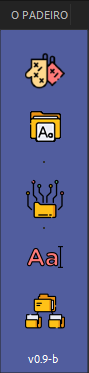
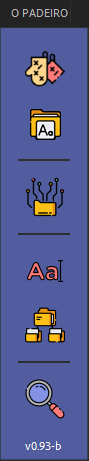
-

Changed region(s): [[0.0, 0.0, 0.9888, 0.6193], [0.2022, 0.6488, 0.7865, 0.9142], [0.0225, 0.9437, 0.9663, 1.0]]

diff --git a/docs/O_PADEIRO/O PADEIRO.md b/docs/O_PADEIRO/O PADEIRO.md
@@ -22,23 +22,28 @@ ferramentas disponíveis em ordem:
 
 - **O PADEIRO**:
 `◖ clique esquerdo` → abre a janela de templates.
-`◗ clique direito` → abre a pasta de templates no servidor de arquivos.
+`◗ clique direito` → abre a pasta de templates no servidor.
   >
 - **RESOLVER FONTES**:
-`◖ clique esquerdo` → instala as fontes necessárias para o template criado.
-`◗ clique direito` → faz o collect dos arquivos de fonte usados no projeto.
+`◖ clique esquerdo` → instala as fontes necessárias para o template.
+`◗ clique direito` → faz o collect dos arquivos de fonte do projeto.
   >
 - **ABRIR PASTAS**:
 `◖ clique esquerdo` → abre a pasta de output do último item da fila de render.
 `◗ clique direito` → abre a pasta do projeto atual.
   > *se o projeto já foi salvo.*
-- **RENOMEAR ITENS**:
+- **RENOMEAR**:
 `◖ clique esquerdo` → renomeia comps selecionadas.
 `◗ clique direito` → renomeia todos os itens da fila de render.
   > *remove caracteres especiais, colocando tudo em CAIXA ALTA e acrescenta os prefixos para rodapés, cartões, letterings, etc.*
-- **ORGANIZAR PROJETO**:
-`◖ clique esquerdo` → organiza o projeto usando o modelo de organização da PROMO.
+- **ORGANIZAR**:
+`◖ clique esquerdo` → organiza o projeto.
+`◗ clique direito` → cria apenas a estrutura de pastas no projeto.
   > *antes de clicar,selecione as comps principais (as que devem ser renderizadas) para que elas sejam adicionadas a pasta '01 COMPS'*
+- **BUSCA**:
+`◖ clique esquerdo` → abre a janela de busca.
+  > *a busca funciona apenas no conteúdo dos layers de texto do projeto.*
+
 <br>
 
 ## 📍 instalação
@@ -161,7 +166,7 @@ o script executará as seguintes tarefas em ordem:
 - **templates de render** → caso tenha habilitado '**adicionar a fila de render**', selecione um preset para o render output.
 
 > 🚩 *obs:*\
-> • o export padrão é um arquivo '*.mov*' em '*QUICKTIME PRORES 422*' para artes sem alpha ou '*444 RGB+A*' (com alpha **STRAIGHT**).
+> • o export padrão é um arquivo '*.mov*' em '*QUICKTIME PRORES 422*' para artes sem alpha ou '*444 RGB+A*' (com alpha **STRAIGHT**) para artes com alpha.
 
 ---
 
@@ -207,12 +212,11 @@ não é preciso se preocupar com o uso de letras **maiúsculas** ou **minúscula
 
 ## outras utilidades...
 
-- **resolver fontes**:
+- **RESOLVER FONTES**:
 
   `◖ clique esquerdo` → Instala as fontes que o template do padeiro precisa para funcionar corretamente.
 
-  Ao preencher o template pela interface do padeiro o script armazena no 'Source' dos metadados do projeto o caminho dos arquivos do template, assim é possível fazer a instalação das fontes necessárias facilmente. Após clicar no botão um script de 'powershell' copia todos os arquivos de fontes do projeto para a pasta de fontes do sistema.
-
+  *Ao preencher o template pela interface do padeiro o script armazena no 'Source' dos metadados do projeto o caminho dos arquivos do template, assim é possível fazer a instalação das fontes necessárias facilmente. Após clicar no botão um script de 'powershell' copia todos os arquivos de fontes do projeto para a pasta de fontes do sistema.*
   > 📋 *exemplo:*\
   > ![instalar fontes](gifs/instalar-fontes.gif)
 
@@ -229,7 +233,7 @@ não é preciso se preocupar com o uso de letras **maiúsculas** ou **minúscula
 
   `◗ clique direito` → Copia todos os arquivos de fontes usadas nos layers de textos do projeto em uma pasta selecionada pelo usuário.
 
-  O script varre todas os layers de texto de todas as comps do projeto e armazena todas as fontes usadas, depois, copia os seus arquivos para uma pasta a sua escolha.
+  *O script varre todas os layers de texto de todas as comps do projeto e armazena todas as fontes usadas, depois, copia os seus arquivos para uma pasta a sua escolha.*
 
   > 📋 *exemplo:*\
   > ![collect fontes](gifs/collect-de-fontes.gif)
@@ -237,29 +241,29 @@ não é preciso se preocupar com o uso de letras **maiúsculas** ou **minúscula
   > 🚩 *obs:*\
   > Algumas fontes instaladas apenas na pasta do usuário podem retornar um erro na hora da cópia. Nesse caso, o script alertará quais fontes não puderam ser copiadas.
 
-  <br>
+  <br><br>
 
-- **abrir pastas**:
+- **ABRIR PASTAS**:
 
   `◖ clique esquerdo` → Abre a pasta onde o último vídeo da fila de render será / foi salvo.
 
-  O script olha na fila de render o último caminho de pasta disponível e abre a pasta.
+  *O script olha na fila de render o último caminho de pasta disponível e abre a pasta.*
 
   `◗ clique direito` → Abre a pasta onde o projeto atual está guardado (se ele já tiver sido salvo antes).
 
-  O script verifica se você já salvou o projeto. Se sim, ele abre a pasta.
+  *O script verifica se você já salvou o projeto. Se sim, ele abre a pasta.*
 
   > 🚩 *obs:*\
   > Caso o caminho não seja encontrado por falta de permissão ou falta de mapeamento de pastas de rede, o script não retornara o caminho.
 
-  <br>
+  <br><br>
 
-- RENOMEAR COMPS
+- **RENOMEAR**:
 
   `◖ clique esquerdo` → Altera o nome das comps selecionadas na janela do projeto.
 
-  O script remove caracteres especiais dos nomes, deixa tudo em MAIÚSCULAS.\
-  Se as comps selecionadas estiverem dentro de uma pasta com um nome específico ou se o nome delas já tiver algum prefixo ou sufixo conhecido, todos essas comps receberão um prefixo no nome.
+  *O script remove caracteres especiais dos nomes, deixa tudo em MAIÚSCULAS.\
+  Se as comps selecionadas estiverem dentro de uma pasta com um nome específico ou se o nome delas já tiver algum prefixo ou sufixo conhecido, todos essas comps receberão um prefixo no nome.*
 
   > 📋 *exemplo:*\
   > ![renomear comps](gifs/renomear-comps.gif)
@@ -271,14 +275,13 @@ não é preciso se preocupar com o uso de letras **maiúsculas** ou **minúscula
 
   `◗ clique direito` → Altera o nome de todos os itens na fila de render.
 
-  O nome das comps não será alterado!
-  O script pega os nomes das comps de todos os itens da fila de render.
-  Ele faz as mesmas mudanças que no clique esquerdo: tira caracteres especiais, coloca em MAIÚSCULAS e adiciona prefixos.
+  *O script pega os nomes das comps de todos os itens da fila de render e faz as mesmas mudanças que no clique esquerdo: tira caracteres especiais, coloca em MAIÚSCULAS e adiciona prefixos.*
 
   > 📋 *exemplo:*\
-  > ![renomear output](renomear-output.gif)
+  > ![renomear output](gifs/renomear-output.gif)
 
   > 🚩 *obs:*\
+  > O NOME DAS COMPS NÃO SERÁ ALTERADO!
   > No momento, outputs em sequânica de imagens ainda não são suportados.
 
   **lista de prefixos e termos reconhecidos**:
@@ -292,22 +295,43 @@ não é preciso se preocupar com o uso de letras **maiúsculas** ou **minúscula
   - **PASSAGEM** → *PASSAGENS, TRANSICAO, LAPADA*
   - **REF** → *REFERENCIA, PREVIEW*
 
-<br>
+  <br><br>
 
-- ORGANIZAR PROJETO
+- **ORGANIZAR**:
 
   `◖ clique esquerdo` → Organiza o projeto de acordo com o modelo de projeto da PROMO.
-  O script cria várias pastas, como '01 COMPS', '02 PRECOMPS', '03 ARQUIVOS', etc.
-  As comps selecionadas inicialmente serão organizadas na pasta '01 COMPS'.
-  O script separa outros arquivos (imagens, sons, etc.) nas pastas certas.
+  *O script cria várias pastas, como '01 COMPS', '02 PRECOMPS', '03 ARQUIVOS', etc.*
+  *As comps selecionadas inicialmente serão organizadas na pasta '01 COMPS'.*
+  *O script separa outros arquivos (imagens, sons, etc.) nas pastas certas.*
 
   > 📋 *exemplo:*\
-  > ![organizar projeto](organizar-projeto.gif)
+  > ![organizar projeto](gifs/organizar-projeto.gif)
 
   > 🚩 *obs:*\
   > Você deve selecionar as comps principais (as que serão renderizadas) antes de clicar.\
   > Todas as comps selecionadas no momento da organização serão colocadas na pasta '01 COMPS'.\
   > As comps renomeadas pelo script também serão organizadas na pasta '01 COMPS' caso possuam algum termo reconhecido em seu nome e/ou nome da pasta em que estejam contidas.
+
+  <br>
+
+  `◗ clique direito` → Cria apenas a estrutura de pastas no projeto de acordo com o modelo da PROMO.
+
+  > 📋 *exemplo:*\
+  > ![estrutura projeto](images/estrutura_projeto_promo.png)
+
+  <br><br>
+
+- **BUSCA**:
+
+  `◖ clique esquerdo` → Abre a janela de busca em layers de texto do projeto.
+  *O script pesquisará em todos os layers de texto do projeto pelo termo buscado.*
+
+  > 📋 *exemplo:*\
+  > ![busca](images/busca_ui.png)
+
+  > 🚩 *obs:*\
+  > Por padrão a busca é feita ignorando acentuação e caixa do texto.\
+  > Assim uma busca rápida por 'amazonia' pode retornar todos os layers de texto contendo 'amazonia', 'Amazônia', 'AmAzOnIa'...
 
 <br>
 
@@ -329,8 +353,10 @@ não é preciso se preocupar com o uso de letras **maiúsculas** ou **minúscula
   - [BRASILEIRAO_CONFRONTO](templates_disponiveis/ESPORTES/BRASILEIRAO/CONFRONTO.md)
 - INTEGRADA
   - [INTEGRADA](templates_disponiveis/ESPORTES/INTEGRADA/INTEGRADA.md)
+- GLOBO ESPORTE
+  - [BRODAPE_INFO](templates_disponiveis/ESPORTES/VERAO_ESPETACULAR/RODAPE_ATRACAO.md)
 - VERAO ESPETACULAR
-  - [BRASILEIRAO_CONFRONTO](templates_disponiveis/ESPORTES/VERAO_ESPETACULAR/RODAPE_ATRACAO.md)
+  - [RODAPE_ATRACAO](templates_disponiveis/ESPORTES/VERAO_ESPETACULAR/RODAPE_ATRACAO.md)
 
 ### NOVELAS:
 
